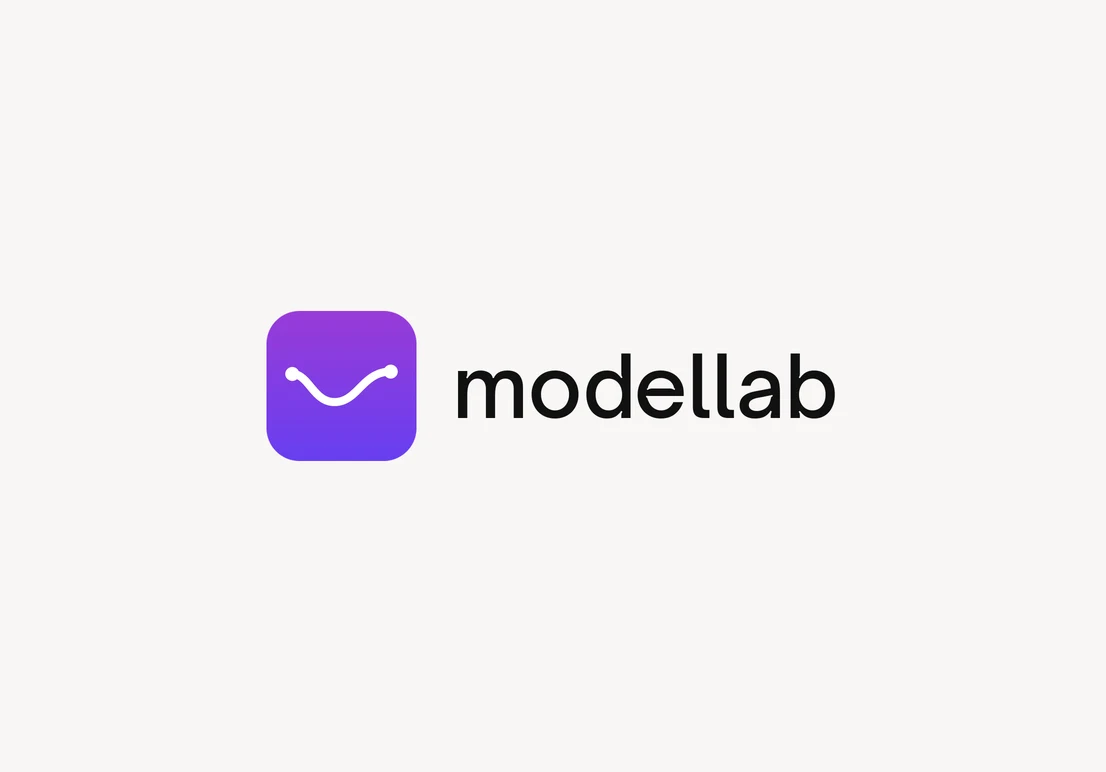
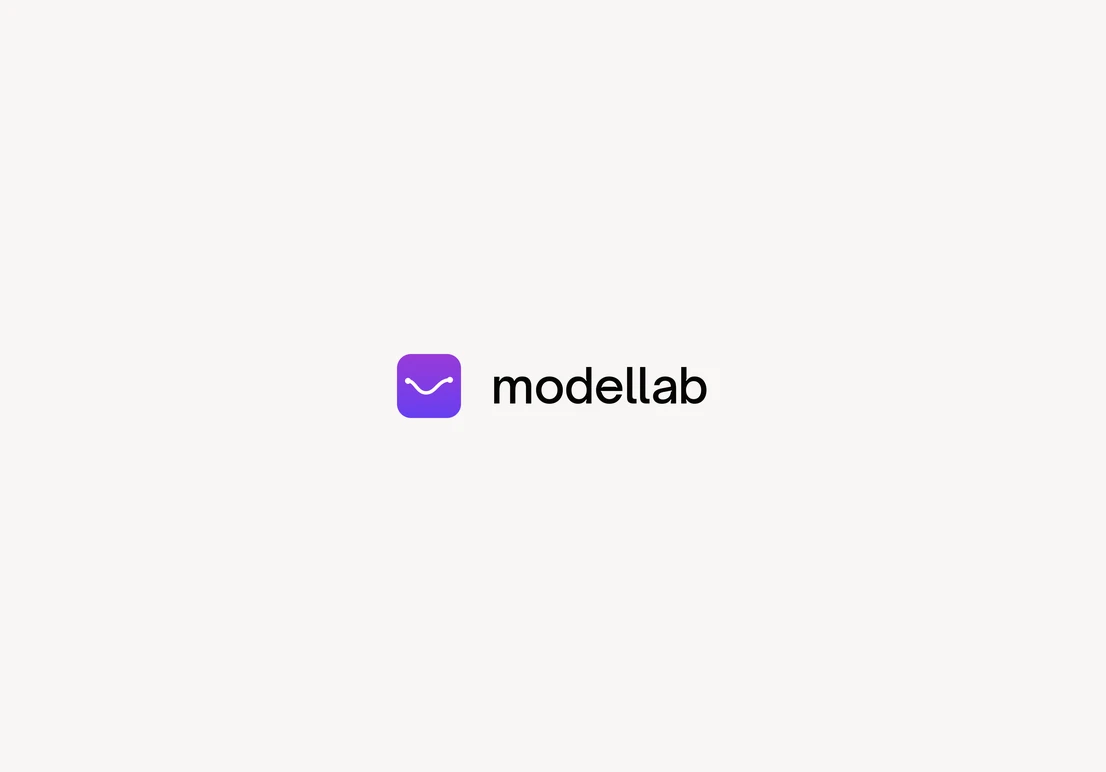
Match ModelLab thumbnail to original measured geometry
Claude-Session: https://claude.ai/code/session_014NUsqnhuUs8p2jni7cYKXK

Changed region(s): [[0.2152, 0.4041, 0.7685, 0.6218]]

diff --git a/CHANGELOG.md b/CHANGELOG.md
@@ -2,7 +2,7 @@
 
 ## 2026-11-20 — ModelLab refresh
 
-- New ModelLab thumbnail: current purple app icon + Open Sauce wordmark (`images/thumb-modellab.webp`, cache-busted `?v=2`).
+- New ModelLab thumbnail: current purple app icon + Open Sauce wordmark (`images/thumb-modellab.webp`, cache-busted `?v=2`). Geometry matches the measured original: wordmark at the same letter positions (x 494–706, y 367–404, ±1px), icon 64×64 at x 397 in the old mark's width, centered on the tile midline.
 - ModelLab links now point to modellab.hidanielkang.com (Work card, TMU "Next" button, case page).
 - Case page copy updated: text buddy as the core (Claude on Twilio), dropped email gate, $4.99/mo Pro plan on Stripe, updated stack.
 - Experience entry for ModelLab updated to match.
